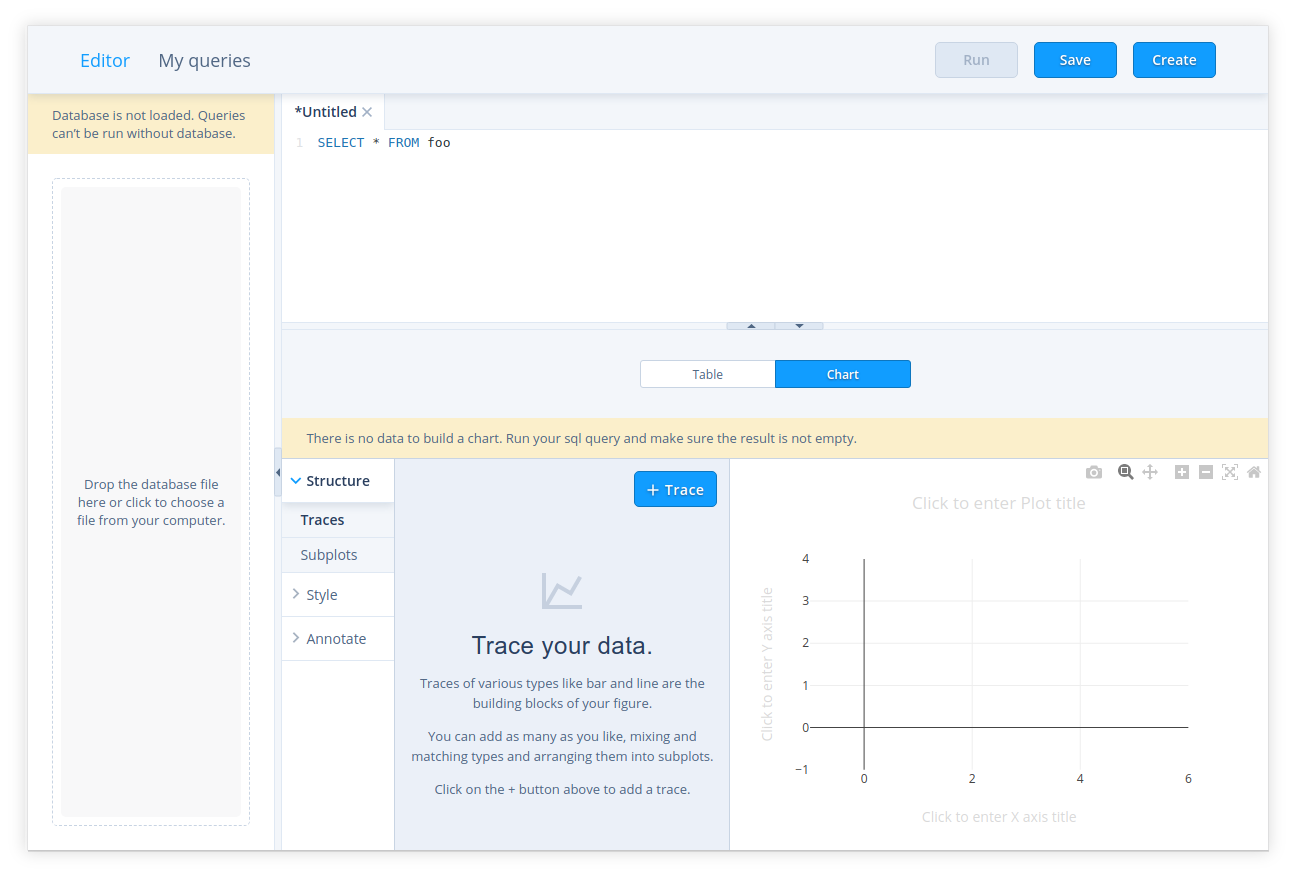
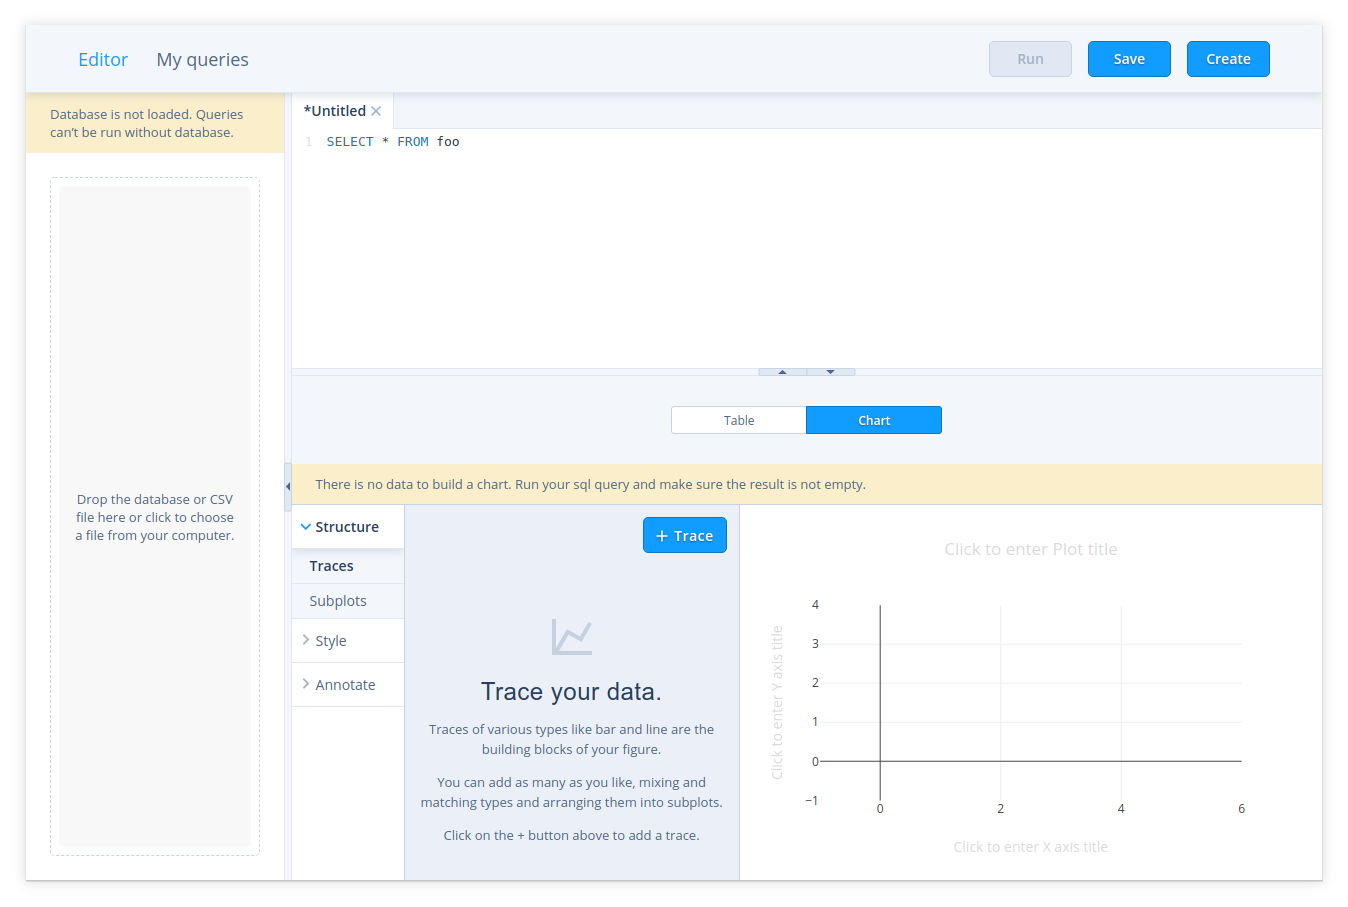
update readme #27

diff --git a/README.md b/README.md
@@ -4,15 +4,15 @@
 
 # sqliteviz
 
-Sqliteviz is a single-page application for fully client-side visualisation of SQLite databases.
+Sqliteviz is a single-page application for fully client-side visualisation of SQLite databases or CSV.
 
 ## Get started
 
 The latest release of sqliteviz is running on [Github pages][6]. The simplest way to start is to use sqliteviz there.
 
-### Choose a databese file
+### Choose a databese or CSV file
 
-You can choose a database file right on the welcom page (fig. 1). The supported file extentions: `.db`,`.sqlite` and `.sqlite3`.
+You can choose a database or CSV file right on the welcom page (fig. 1). The supported file extentions: `.csv`, `.db`,`.sqlite` and `.sqlite3`.
 
 <p align="center">
    <img class="figure" src="src/assets/images/Screenshot_welcome.png" width="400"/>
@@ -24,7 +24,19 @@ You can choose a database file right on the welcom page (fig. 1). The supported 
   </sub>
 </p>
 
-This is not a mandatory step. You can skip it and manipulate queries in sqliteviz without a database. Choose a database later in the left panel of the Editor when it's time to run a query (fig. 2).
+If you choose a CSV file it will be parsed. Then sqliteviz creates a new database with data from CSV in `csv_import` table. You can change parse settings in the dialog which is shown automatically if you choose a CSV file (fig. 2).
+
+<p align="center">
+   <img class="figure" src="src/assets/images/Screenshot_csv.png" width="650"/>
+</p>
+
+<p align="center">
+  <sub>
+    Fig. 2: Import CSV dialog
+  </sub>
+</p>
+
+Choosing a database or CSV file is not a mandatory step. You can skip it and manipulate queries in sqliteviz without a database. Choose a database or CSV later in the left panel of the `Editor` when it's time to run a query (fig. 3).
 
 <p align="center">
    <img class="figure" src="src/assets/images/Screenshot_editor.png" width="650"/>
@@ -32,11 +44,11 @@ This is not a mandatory step. You can skip it and manipulate queries in sqlitevi
 
 <p align="center">
   <sub>
-    Fig. 2: Editor (database is not chosen) 
+    Fig. 3: Editor (neither database nor CSV is not chosen) 
   </sub>
 </p>
 
-After chosing a database you can browse tables, columns and their types in the left panel of the Editor (fig. 3).
+After chosing a database or CSV you can browse tables, columns and their types in the left panel of the `Editor` (fig. 4).
 
 <p align="center">
    <img class="figure" src="src/assets/images/Screenshot_editor_with_db.png" width="650"/>
@@ -44,7 +56,7 @@ After chosing a database you can browse tables, columns and their types in the l
 
 <p align="center">
   <sub>
-    Fig. 3: Editor (database is chosen)
+    Fig. 4: Editor (database is chosen)
   </sub>
 </p>
 
@@ -56,15 +68,15 @@ Press `Create` button in the top toolbar or use `Ctrl+b`(`Cmd+b` for MacOS) keyb
 
 In the query text editor part you can specify a `SELECT` statement for getting data.
 
-Result panel has two modes: table view (fig. 3, fig. 4) and chart view (fig. 2). In the table view you can see the result of query running (fig. 4). In the chart view there is a chart editor component which allows to build a visialization from the result set.
+The result panel has two modes: table view (fig. 4, fig. 5) and chart view (fig. 3). In the table view you can see the result of query running (fig. 5). In the chart view there is a chart editor component which allows to build a visialization from the result set.
 
 #### Run a query
 
 Press `Run` button in the top toolbar or use `Ctrl+r` or `Ctrl+Enter`(`Cmd+r` or `Cmd+Enter` for MacOS) keyboard shortcut to execute a query in the current opened tab.
 
-> **Note:**  Running is not available if a database was not chosen or a query for the current tab is not specified.
+> **Note:**  Running is not available if neither a database nor CSV was not chosen or a query for the current tab is not specified.
 
-The query result will be displayed in the result panel in table mode (fig. 4).
+The query result will be displayed in the result panel in table mode (fig. 5).
 
 <p align="center">
    <img class="figure" src="src/assets/images/Screenshot_result.png" width="650"/>
@@ -72,7 +84,7 @@ The query result will be displayed in the result panel in table mode (fig. 4).
 
 <p align="center">
   <sub>
-    Fig. 4: Query results
+    Fig. 5: Query results
   </sub>
 </p>
 
@@ -84,13 +96,13 @@ After running a query you can switch result panel to the chart mode and create a
 
 Press `Save` button in the top toolbar or use `Ctrl+s`(`Cmd+s` for MacOS) keyboard shortcut to save a query in the current opened tab to local storage of your browser.
 
-After that the query will be in the list on "My queries" page.
+After that the query will be in the list on `My queries` page.
 
 > **Note:**  Only the text of the query and chart settings will be saved. The result of the query execution won't be saved.
 
 ## Working with saved queries
 
-You can find all queries that you saved in local storage of your browser in "My queries" (fig. 5).
+You can find all queries that you saved in `My queries` (fig. 6).
 
 <p align="center">
    <img class="figure" src="src/assets/images/Screenshot_my_queries.png" width="600"/>
@@ -98,7 +110,7 @@ You can find all queries that you saved in local storage of your browser in "My 
 
 <p align="center">
   <sub>
-    Fig. 5: My queries
+    Fig. 6: My queries
   </sub>
 </p>
 
@@ -113,7 +125,7 @@ To edit the text of a query or its chart settings click on the respective row. Y
 
 > **Note:** After opening a query there will be no chart for it even if you specified it and saved. That is so because there is no data to build the chart. Run the query and all saved chart settings will be applied.
 
-You can also delete or export to file a group of queries. Select queries with checkboxes and press `Delete`/`Export` button above the grid (fig. 6).
+You can also delete or export to file a group of queries. Select queries with checkboxes and press `Delete`/`Export` button above the grid (fig. 7).
 
 <p align="center">
    <img class="figure" src="src/assets/images/Screenshot_group.png" width="600"/> 
@@ -122,7 +134,7 @@ You can also delete or export to file a group of queries. Select queries with ch
 
 <p align="center">
   <sub>
-    Fig. 6: My queries: a group of queries is selected
+    Fig. 7: My queries: a group of queries is selected
    </sub>
 </p>
 
@@ -130,13 +142,13 @@ You can also delete or export to file a group of queries. Select queries with ch
 
 ## Import queries
 
-Click `Import` button on "My queries" page to import queries from json file generated by export.
+Click `Import` button on `My queries` page to import queries from JSON file generated by export.
 
 ## Predefined queries
 
-If you run sqliteviz on your own server you can specify predefined queries. These queries will be in "My queries" list for all users working with sqliteviz on your server.
+If you run sqliteviz on your own server you can specify predefined queries. These queries will be in `My queries` list for all users working with sqliteviz on your server.
 
-To create a list of predefined queries choose queries in "My queries" list and export them to `queries.json`. Then place this file on the server in the same directory as `index.html`.
+To create a list of predefined queries choose queries in `My queries` list and export them to `queries.json`. Then place this file on the server in the same directory as `index.html`.
 
 A user can't edit, rename or delete a predefined query. The rest operations are available.
 
@@ -144,7 +156,7 @@ A user can't edit, rename or delete a predefined query. The rest operations are 
 It's a kind of middleground between [Plotly Falcon][1] and [Redash][2].
 
 ## Components
-It is built on top of [react-chart-editor][3], [sql.js][4] and [Vue-Codemirror][8] in [Vue.js][5]. 
+It is built on top of [react-chart-editor][3], [sql.js][4] and [Vue-Codemirror][8] in [Vue.js][5]. CSV parsing is performed with [Papa Parse][9].
 
 [1]: https://github.com/plotly/falcon
 [2]: https://github.com/getredash/redash
@@ -154,5 +166,5 @@ It is built on top of [react-chart-editor][3], [sql.js][4] and [Vue-Codemirror][
 [6]: https://lana-k.github.io/sqliteviz
 [7]: https://plotly.com/chart-studio-help/tutorials/#basic
 [8]: https://github.com/surmon-china/vue-codemirror#readme
-
+[9]: https://www.papaparse.com/
 
